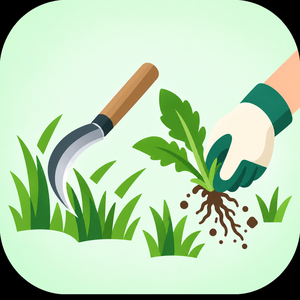
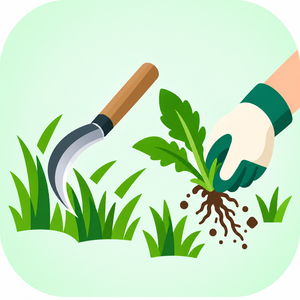
Add files via upload

diff --git a/assets/style.css b/assets/style.css
@@ -225,3 +225,11 @@ body{font-size:18px;line-height:1.85}
 /* v2.5: optically centered, consistent up arrow on every platform. */
 .back-top{display:grid;place-items:center;padding:0;line-height:1}
 .back-top svg{display:block;width:24px;height:24px;fill:none;stroke:currentColor;stroke-width:2.5;stroke-linecap:round;stroke-linejoin:round}
+
+/* v2.6: balanced pricing notes with less empty space below on phones. */
+@media(max-width:720px){
+  .pricing{padding:68px 0 52px}
+  .price-card{margin-bottom:28px}
+  .price-notes{width:min(100%,520px);margin:0 auto;gap:12px;align-items:stretch}
+  .price-notes li{width:100%;min-height:58px;padding:12px 14px;display:flex;align-items:center;justify-content:center;text-align:center;border-radius:16px;font-size:clamp(16px,4vw,18px);line-height:1.4}
+}
